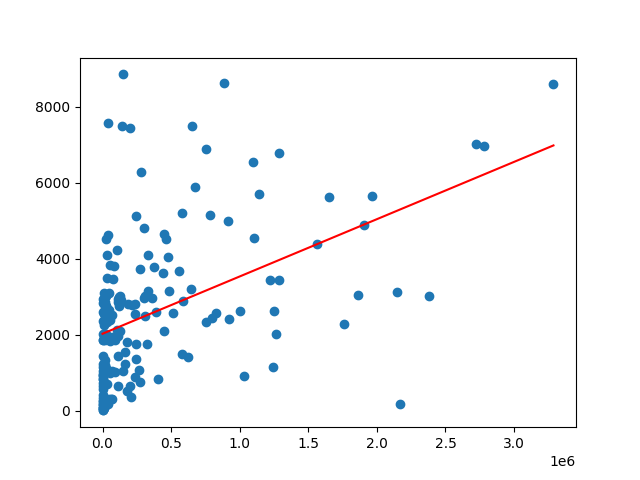
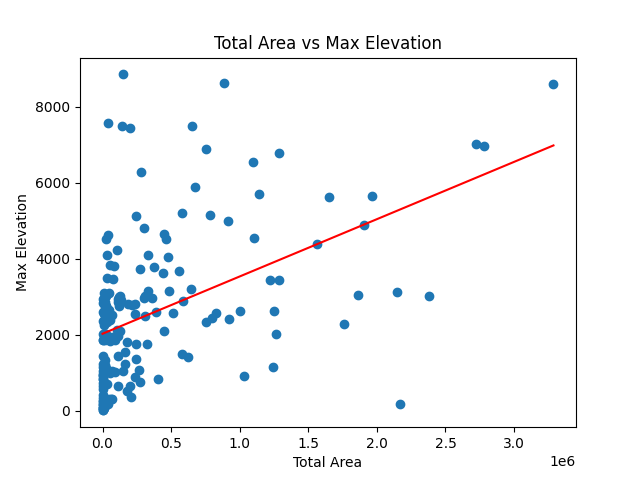
basic single variable model with plots

Changed region(s): [[0.3438, 0.0625, 0.6875, 0.125], [0.0312, 0.4062, 0.0625, 0.5938], [0.4688, 0.9375, 0.5625, 0.9688]]

diff --git a/LowestPointVsMaxEle.py b/LowestPointVsMaxEle.py
@@ -75,7 +75,10 @@ plt.scatter(X_data, Y_data)
 # Plot the regression line
 x1 = [min(X_data), max(X_data)]
 y1 = [β0 + β1 * x_data for x_data in x1]
-plt.plot(x1, y1, color='red')
-plt.savefig("low_point_vs_max_elevation.png")
+
+plt.xlabel("Lowest Point")
+plt.ylabel("Max Elevation")
+plt.title("Lowest Point vs Max Elevation")
+plt.savefig("low_point_vs_max_elevation1.png")
 plt.show()
 

diff --git a/TotalAreaVsMaxEle.py b/TotalAreaVsMaxEle.py
@@ -77,6 +77,9 @@ plt.scatter(X_data, Y_data)
 x1 = [min(X_data), max(X_data)]
 y1 = [β0 + β1 * x_data for x_data in x1]
 plt.plot(x1, y1, color='red')
+plt.xlabel("Total Area")
+plt.ylabel("Max Elevation")
+plt.title("Total Area vs Max Elevation")
 plt.savefig("total_area_vs_max_elevation")
 
 plt.show()
